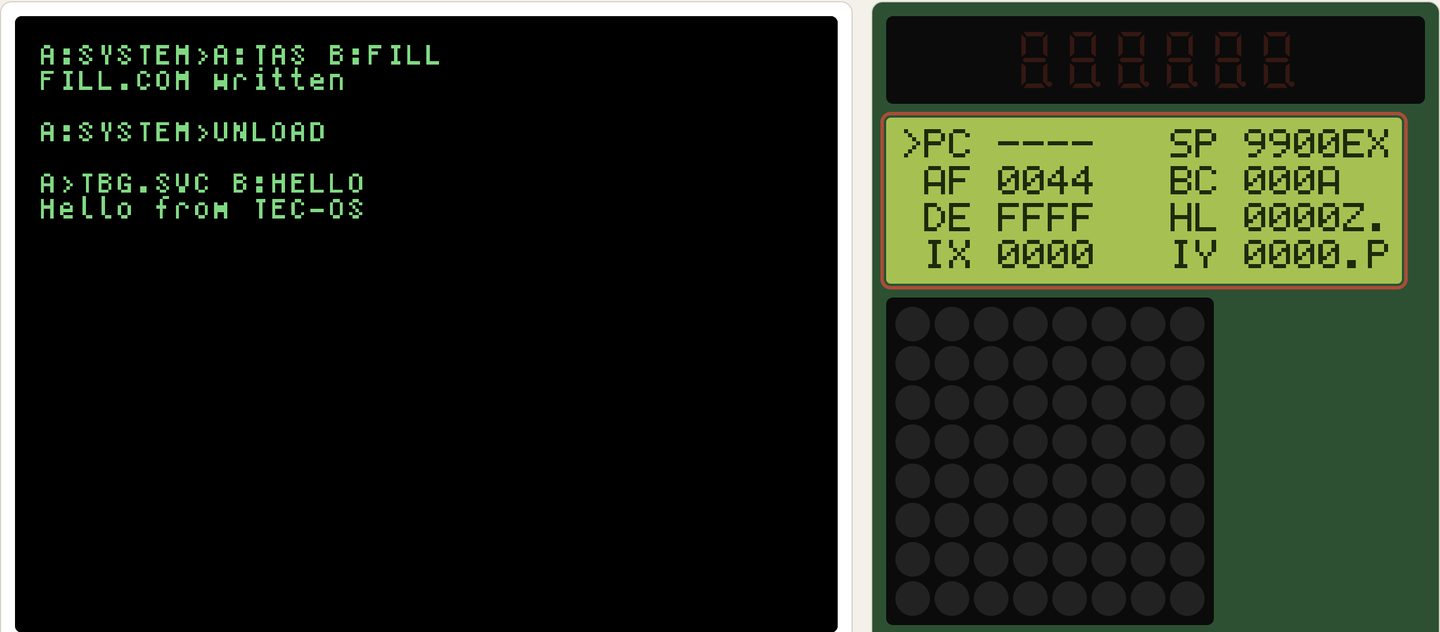
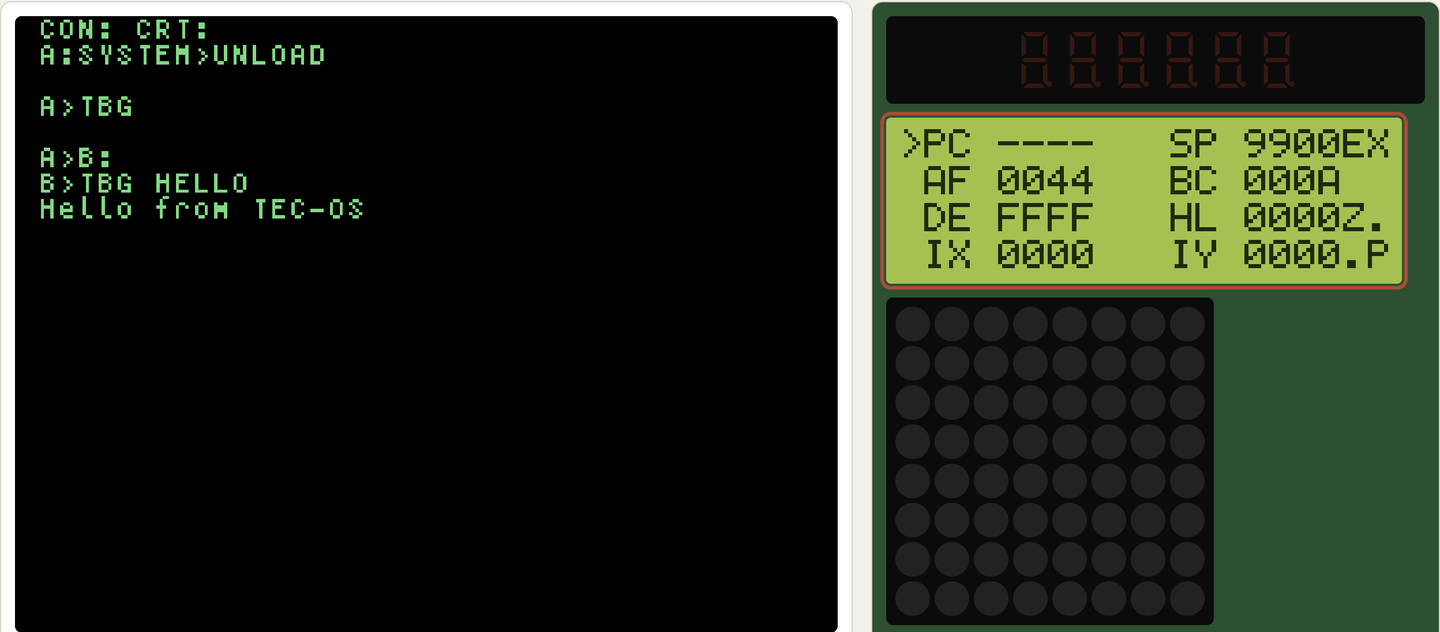
Write TBG book strictly for TEC-1G hardware and refresh Chapter 1 capture

Changed region(s): [[0.0312, 0.0601, 0.3125, 0.2706], [0.0938, 0.2706, 0.25, 0.3307], [0.0312, 0.0301, 0.1562, 0.0601]]

diff --git a/content/tbg/06-reference.md b/content/tbg/06-reference.md
@@ -29,7 +29,7 @@ TBG keeps letter commands to five keys: `R`, `B`, `G`, `E` and `H`. Everything e
 | `Esc` | Step back one view. At the top level, displays `Quit? Enter yes` (any other key stays). |
 | `H` | Open context-sensitive help from `TBG.HLP`. `Left`/`Right` turn pages and `Esc` or `H` returns. |
 
-`Space` and `R` wait for key release before resuming the program so the keypress never reaches the program, while arrow keys repeat when held. In the browser Viewer, click the LCD to focus TBG (`Tab` stays captured there) and press `F6` to return focus to the console.
+`Space` and `R` wait for key release before resuming the program so the keypress never reaches the program, while arrow keys repeat when held.
 
 ## Arrow keys by view
 
@@ -62,8 +62,6 @@ TBG keeps letter commands to five keys: `R`, `B`, `G`, `E` and `H`. Everything e
 | Symptom | Cause and fix |
 | --- | --- |
 | CP/M prints `TBG?` or `TBG.SVC?` | Install `TBG` from drive A (where `TBG.SVC` lives), or free RAM above `8000h`. `TBG.SVC` needs about 7.5 KiB (capped at 8 KiB). Run `UNLOAD` to remove `SHELL.SVC` or other services. |
-| Viewer shows Registers but keys do nothing | Click the character LCD to focus it, then press and release the key. |
-| `Tab` moves browser focus off the LCD | Use a Viewer build with LCD `Tab` capture. `F6` returns focus to the console. |
 | `H` prints `No help: TBG.HLP` | Copy `TBG.HLP` beside `TBG.SVC` or onto drive A. |
 | `B` prints `Select in Code first` | Switch to Code (or Symbols), move `>` onto an instruction and press `B`. |
 | Code does not show the stopped instruction | Press `Left` in Code to snap `>` back to `PC`. |
@@ -90,5 +88,4 @@ TBG lives in its own repository alongside Thorium and TEC-OS. Clone `jhlagado/tb
 Copy all three files to your TEC-OS disk. Any standard TEC-OS ROM supports direct launches and every exercise in this book. `TBG ARM` requires ABI 5.3 or later.
 
 [TBG source](https://github.com/jhlagado/tbg) ·
-[Viewer build source](https://github.com/jhlagado/tec-os-viewer) ·
 [Origo P8 test evidence](https://github.com/jhlagado/origo/tree/main/studies/p8-tbg/evidence)

diff --git a/content/tbg/01-first-stop.md b/content/tbg/01-first-stop.md
@@ -71,8 +71,6 @@ Ordinary `.COM` programs load at `0100h` and grow upwards into free RAM. Residen
 
 Once resident, TBG survives warm boots and works transparently alongside the rest of the computer. Whenever a debugged program stops, TBG draws on the 20 × 4 character LCD and reads the matrix keyboard. Your console stays untouched, so any text or graphics your program draws remains exactly where the program put it.
 
-On a physical TEC-1G, the LCD and matrix keyboard sit right in front of you. In the browser Viewer, one keyboard feeds both displays, so you click the console screen to type commands and click the character LCD once TBG stops the program. While the LCD has focus, `Tab` stays inside TBG instead of jumping through browser controls. `F6` hands keyboard focus back to the console.
-
 ## Install TBG and catch the first stop
 
 For a command with no file extension, TEC-OS looks for `.COM` first and then `.SVC`. At the `A>` prompt, type `TBG` on its own to install the service:
@@ -120,7 +118,7 @@ A 20 × 4 LCD gives you eighty character cells, so every column earns its keep:
 
 ## Step `HELLO.COM` by hand
 
-Click the LCD if you are in the Viewer, then tap `Space` once and let it go. The Z80 executes `LD DE,MSG` at `0100h` and halts again before `0103h`. On the LCD, `PC` advances to `0103` and `DE` becomes `0109`, the address of `"Hello from TEC-OS"`. Over on the console, nothing has moved.
+Tap `Space` once and let it go. The Z80 executes `LD DE,MSG` at `0100h` and halts again before `0103h`. On the LCD, `PC` advances to `0103` and `DE` becomes `0109`, the address of `"Hello from TEC-OS"`. Over on the console, nothing has moved.
 
 Tap `Space` a second time. `LD C,9` runs, moving `PC` to `0105` and setting the low byte of `BC` to `09`:
 

diff --git a/content/tbg/05-symbols.md b/content/tbg/05-symbols.md
@@ -77,8 +77,6 @@ Three details jump out on those four lines:
 - **Named jumps, calls and indirects:** Branch targets (`DJNZ FILL`), calls and bracketed addresses (`(nn)`) show label names when a match exists. Immediate 16-bit loads like `LD HL,010A` stay numeric because a 16-bit literal could be a plain constant like `$1234` rather than an address.
 - **Data still disassembles:** On row 4, `010A INC B` sits right under `BUF:`. The `04h` you just stored in `BUF` happens to be the Z80 opcode for `INC B`. Seeing `BUF:` directly above `010A` tells you at once that those bytes are your data buffer, not code.
 
-![TBGSYM.SVC active on FILL.COM in the TEC-OS Viewer: the console stays at the launch prompt while Code on the LCD shows DJNZ FILL and the BUF: label row.](/images/tbg/viewer-tbgsym-code.png)
-
 ## The fifth view: Symbols
 
 Whenever `TBGSYM` matches a `.TBG` file, a fifth view called **Symbols** joins the `Tab` ring right after Memory (and one `Shift+Tab` backward from Registers). Tab to it on `FILL`:

diff --git a/content/tbg/index.md b/content/tbg/index.md
@@ -26,7 +26,7 @@ By itself, TBG works in raw hexadecimal addresses. Whenever you want your own as
 
 You should be comfortable at the TEC-OS prompt, able to enter a short file in `TED` and able to read basic Z80 instructions and hexadecimal. Every chapter works through a concrete program rather than listing controls in isolation. You write or reuse a small `.ASM` file, run it normally to see what it does, then bring it under TBG so each control turns up beside the problem that calls for it.
 
-Everything here works on a physical TEC-1G and in the browser [TEC-OS Viewer](https://jhlagado.github.io/tec-os-viewer/). Addresses and bytes use hexadecimal with a trailing `h`, such as `0100h`, and sizes use KiB or decimal bytes.
+Addresses and bytes use hexadecimal with a trailing `h`, such as `0100h`, and sizes use KiB or decimal bytes.
 
 ## Chapters
 
